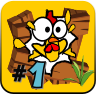
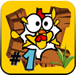
Modificação da camera da tela de fases. Além disso, retirado um bug que colocava(desenhava) duas fases abaixo de outras duas.

diff --git a/core/src/br/com/chickenroad/screens/screenparts/SeasonMenu.java b/core/src/br/com/chickenroad/screens/screenparts/SeasonMenu.java
@@ -2,13 +2,12 @@ package br.com.chickenroad.screens.screenparts;
 
 import java.util.ArrayList;
 
-import br.com.chickenroad.screens.util.Constantes;
-import br.com.chickenroad.screens.util.PreferencesUser;
-
 import com.badlogic.gdx.graphics.Texture;
 import com.badlogic.gdx.graphics.g2d.Sprite;
 import com.badlogic.gdx.graphics.g2d.SpriteBatch;
-import com.badlogic.gdx.graphics.g2d.TextureRegion;
+
+import br.com.chickenroad.screens.util.Constantes;
+import br.com.chickenroad.screens.util.PreferencesUser;
 
 
 public class SeasonMenu {
@@ -17,10 +16,8 @@ public class SeasonMenu {
 	private String faseList[] = {"fase1.png", "faseBloqueada.png", "faseBloqueada.png", "faseBloqueada.png",
 			"faseBloqueada.png", "faseBloqueada.png", "faseBloqueada.png", "faseBloqueada.png",
 			"faseBloqueada.png", "faseBloqueada.png", "faseBloqueada.png", "faseBloqueada.png",
-			"faseBloqueada.png", "faseBloqueada.png", "faseBloqueada.png", "faseBloqueada.png", "faseBloqueada.png"};
+			"faseBloqueada.png", "faseBloqueada.png", "faseBloqueada.png"};
 
-	private ArrayList<Texture> textureFaseList;
-	private ArrayList<TextureRegion> textureRegionFaseList;
 	private ArrayList<Sprite> spriteFaseList;
 
 	private int fase_atual = 0;
@@ -33,12 +30,10 @@ public class SeasonMenu {
 		fase_atual = PreferencesUser.getFase();
 
 		//TODO trocar figura e string
-		textureFaseList = new ArrayList<Texture>();
-		textureRegionFaseList = new ArrayList<TextureRegion>();
 		spriteFaseList = new ArrayList<Sprite>();
 
 		int cont = 0;
-		int spriteFaseListHeight = Constantes.HEIGHT_BACKGROUND/2+50;
+		int spriteFaseListHeight = Constantes.WORLD_HEIGHT/2+90;
 
 		String picture;
 		for(int i=0;i<faseList.length;i++){
@@ -47,24 +42,18 @@ public class SeasonMenu {
 			else
 				picture = "faseBloqueada.png";
 
-			Texture texture = new Texture(picture);
-			TextureRegion textureRegion = new TextureRegion(texture, 0,0,96,94);
-			Sprite sprite = new Sprite(textureRegion);
-
-			textureFaseList.add(texture);
-			textureRegionFaseList.add(textureRegion);
+			Sprite sprite = new Sprite(new Texture(picture));
 			spriteFaseList.add(sprite);
 
-			if((i+1)%6 == 0) {
+			if(i%5 == 0) {
+				
+				if(cont != 0) spriteFaseListHeight -= 110;
+				
 				cont = 0;
-				spriteFaseListHeight -= 110; 
-				spriteFaseList.get(i).setPosition(Constantes.WIDTH_BACKGROUND/2-340+1350*cont, 
-						spriteFaseListHeight);
-			}
-			else {
-				spriteFaseList.get(i).setPosition(Constantes.WIDTH_BACKGROUND/2-340+150*cont, 
-						spriteFaseListHeight);
-				cont+=1;
+				spriteFaseList.get(i).setPosition(Constantes.WORLD_WIDTH/2 - 240, spriteFaseListHeight);
+			}else {
+				++cont;
+				spriteFaseList.get(i).setPosition(Constantes.WORLD_WIDTH/2- 240 +105*cont, spriteFaseListHeight);
 			}
 		}
 	}

diff --git a/core/src/br/com/chickenroad/screens/SeasonScreen.java b/core/src/br/com/chickenroad/screens/SeasonScreen.java
@@ -33,7 +33,6 @@ public class SeasonScreen extends ScreenAdapter {
 
 	//background
 	private Texture textureBackground;
-	private TextureRegion textureRegionBackground;
 	private Sprite spriteBackground;
 
 	private OrthographicCamera orthographicCamera;
@@ -49,15 +48,14 @@ public class SeasonScreen extends ScreenAdapter {
 		this.faseMenu = new SeasonMenu();
 
 		orthographicCamera = new OrthographicCamera();
-		orthographicCamera.setToOrtho(false, Constantes.WIDTH_BACKGROUND,Constantes.HEIGHT_BACKGROUND);
+		orthographicCamera.setToOrtho(false, Constantes.WORLD_WIDTH,Constantes.WORLD_HEIGHT);
 
 		textureBACK = assetManager.get(Constantes.URL_BACK_BUTTON);
 		textureRegionBACK = new TextureRegion(textureBACK,0,0,Constantes.WIDTH_BACK_BUTTON,Constantes.HEIGHT_BACK_BUTTON);
 		spriteArrowBACK = new Sprite(textureRegionBACK);
 
 		textureBackground = assetManager.get(Constantes.URL_BACKGROUND_SEASON);
-		textureRegionBackground = new TextureRegion(textureBackground, 0,0,Constantes.WIDTH_BACKGROUND,Constantes.HEIGHT_BACKGROUND);
-		spriteBackground = new Sprite(textureRegionBackground);
+		spriteBackground = new Sprite(textureBackground);
 
 		soundMenuBackground = assetManager.get(Constantes.URL_SOUND_MENU_BACKGROUND);
 		soundClick = assetManager.get(Constantes.URL_SOUND_CLICK);

diff --git a/core/src/br/com/chickenroad/screens/util/Constantes.java b/core/src/br/com/chickenroad/screens/util/Constantes.java
@@ -4,8 +4,6 @@ public class Constantes {
 
 	public static boolean SOUND_ON_FLAG = true;
 
-	public static final int WIDTH_BACKGROUND = 893;
-	public static final int HEIGHT_BACKGROUND = 540;
 	public static final int HEIGHT_SOUNDOFF_BUTTON = 78;
 	public static final int WIDTH_SOUNDOFF_BUTTON = 78;
 	public static final int HEIGHT_SOUNDON_BUTTON = 78;
